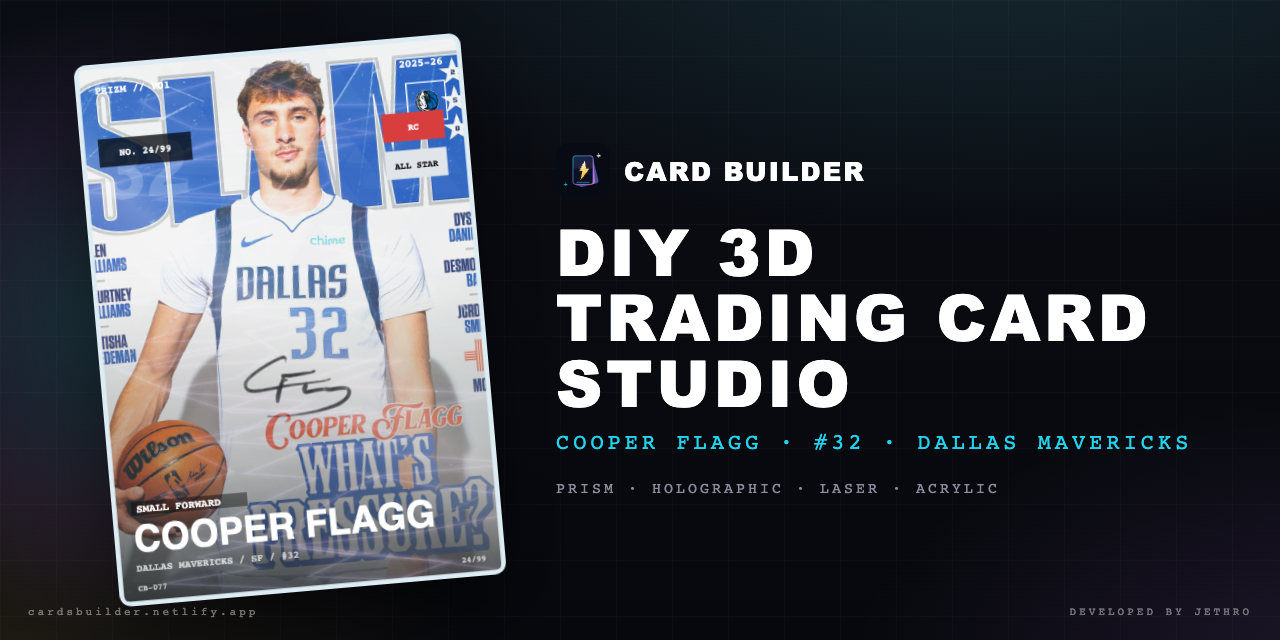
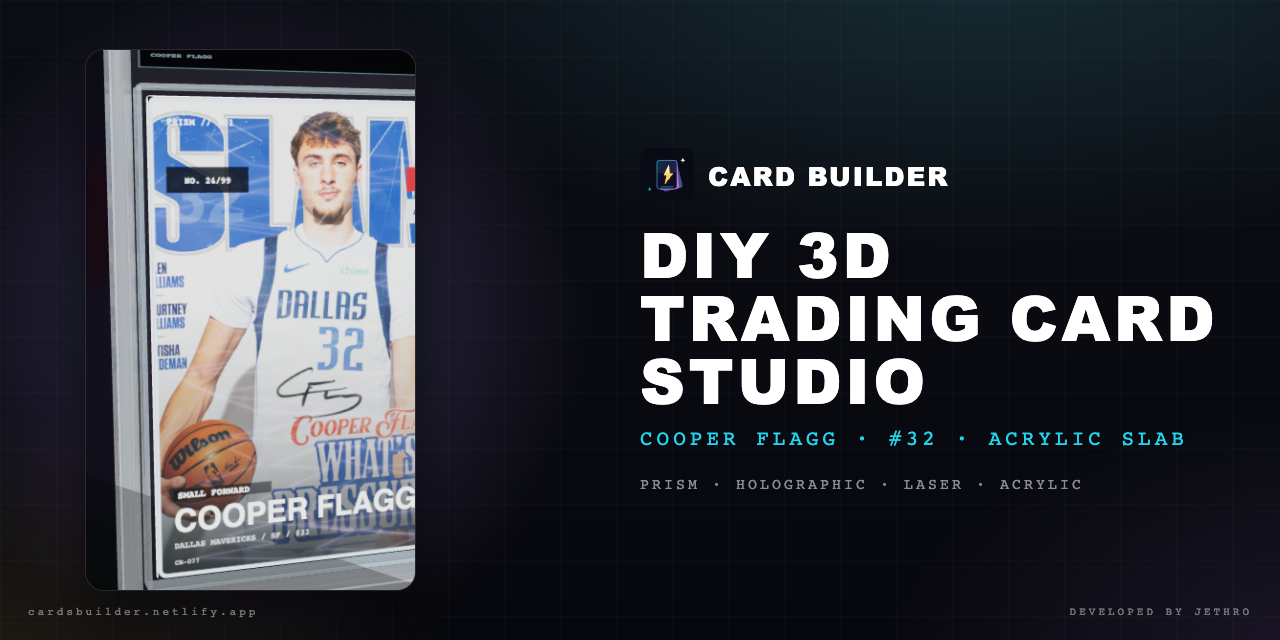
docs: use acrylic slab card render as repo preview

diff --git a/CHANGELOG.md b/CHANGELOG.md
@@ -13,7 +13,7 @@
 
 ### 改进
 
-- GitHub 仓库预览图替换为 1280×640 卡牌首图横幅（Cooper Flagg #32 卡面 + 品牌字），更直观醒目
+- GitHub 仓库预览图替换为 1280×640 横幅：Cooper Flagg #32 **亚克力封装版** 3D 渲染 + 品牌字，更直观醒目
 - 移除卡牌库缩略图右上角的黄色「⚠ 配图未确认」角标；检视弹层内的文字警告保留
 - 首页预设展示卡更新为 COOPER FLAGG / DAL / **#32**，卡号 `CB-077`、编号 `24/99`，签名位于正面（X 50% / Y 78% / 100%），与官方展示卡一致
 - 重做 **CRYSTAL（水晶）** 特效：从低透明度纯色多边形改为渐变填充 + 虚线高光棱面，视觉效果更接近真实棱镜折射，不再显得单薄粗糙
